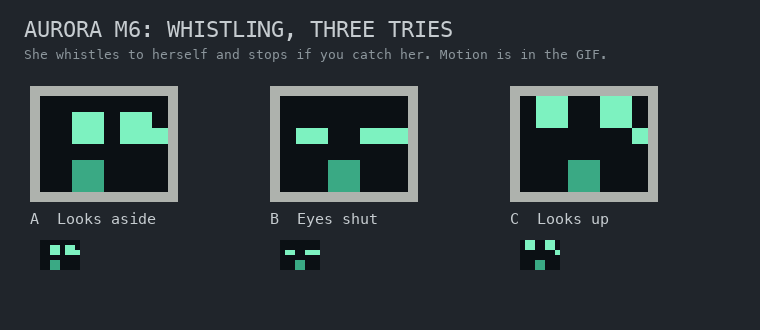
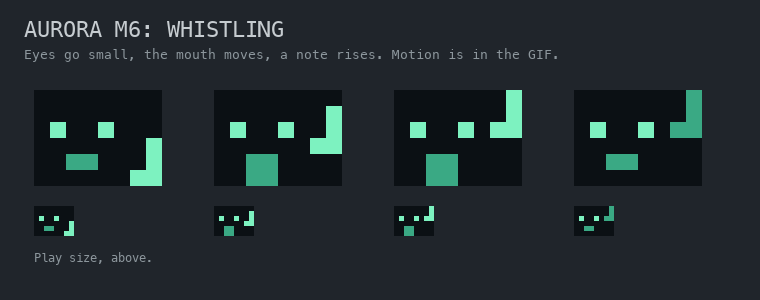
docs: redraw her whistle with small eyes and a note

diff --git a/docs/art/aurora-shepherd/make_m6_faces_mockup.py b/docs/art/aurora-shepherd/make_m6_faces_mockup.py
@@ -352,43 +352,40 @@ def worry_sheet():
     img.save(HERE / 'worry-motion-mockup.png')
 
 
-WHISTLES = [
-    ('A  Looks aside', ['........', '..##.##.', '..##.##.', '........', '..++....', '..++....']),
-    ('B  Eyes shut', ['........', '........', '.##..##.', '........', '...++...', '...++...']),
-    ('C  Looks up', ['.##..##.', '.##..##.', '........', '........', '...++...', '...++...']),
-]
-NOTE = [(7, 4), (7, 3), (7, 2), (7, 1), (7, 0), None, None, None]
+WHISTLE_SHUT = ['........', '........', '.#..#...', '........', '..++....', '........']
+WHISTLE_OPEN = ['........', '........', '.#..#...', '........', '..++....', '..++....']
+NOTE_SHAPE = ((1, 0), (1, 1), (0, 2), (1, 2))  # A stem and a head, at most 2 by 3 texels.
 
 
-def whistling(rows, frame):
-    """Her face, with one lit texel climbing the right side like a note."""
-    spot = NOTE[frame % len(NOTE)]
-    if spot is None:
-        return rows
-    x, y = spot
-    return [row[:x] + '#' + row[x + 1:] if i == y else row for i, row in enumerate(rows)]
+def whistling(frame):
+    """Small eyes, a mouth that opens and shuts, and a note rising up the right side, dimming at the top."""
+    rows = [list(row) for row in (WHISTLE_OPEN if frame // 2 % 2 else WHISTLE_SHUT)]
+    step = frame % 8
+    if step < 5:
+        top = 3 - step if step < 4 else 0
+        cell = '+' if step == 4 else '#'
+        for dx, dy in NOTE_SHAPE:
+            if 0 <= top + dy < H:
+                rows[top + dy][6 + dx] = cell
+    return [''.join(row) for row in rows]
 
 
 def whistle_mockups():
-    img = Image.new('RGB', (760, 330), C['bg'])
+    img = Image.new('RGB', (760, 300), C['bg'])
     d = ImageDraw.Draw(img)
-    d.text((24, 16), 'AURORA M6: WHISTLING, THREE TRIES', font=font(22), fill=C['text'])
-    d.text((24, 46), 'She whistles to herself and stops if you catch her. Motion is in the GIF.', font=font(13), fill=C['dim'])
-    for i, (name, rows) in enumerate(WHISTLES):
-        x = 40 + i * 240
-        framed(d, whistling(rows, 2), x, 96, 16)
-        d.text((x - 10, 210), name, font=font(15), fill=C['text'])
-        display(d, cells(whistling(rows, 2)), x, 240, 5)
+    d.text((24, 16), 'AURORA M6: WHISTLING', font=font(22), fill=C['text'])
+    d.text((24, 46), 'Eyes go small, the mouth moves, a note rises. Motion is in the GIF.', font=font(13), fill=C['dim'])
+    for i, frame in enumerate((0, 2, 3, 4)):
+        x = 34 + i * 180
+        display(d, cells(whistling(frame)), x, 90, 16)
+        display(d, cells(whistling(frame)), x, 206, 5)
+    d.text((34, 250), 'Play size, above.', font=font(12), fill=C['dim'])
     img.save(HERE / 'whistle-face-mockup.png')
-    s, pad = 14, 26
+    s, pad = 22, 26
     frames = []
-    for frame in range(len(NOTE) * 2):
-        img = Image.new('RGB', (pad + 3 * (W * s + pad), H * s + 2 * pad + 18), C['bg'])
-        d = ImageDraw.Draw(img)
-        for i, (name, rows) in enumerate(WHISTLES):
-            x = pad + i * (W * s + pad)
-            display(d, cells(whistling(rows, frame)), x, pad, s)
-            d.text((x, pad + H * s + 8), name, font=font(13), fill=C['dim'])
+    for frame in range(16):
+        img = Image.new('RGB', (W * s + 2 * pad, H * s + 2 * pad), C['bg'])
+        display(ImageDraw.Draw(img), cells(whistling(frame)), pad, pad, s)
         frames.append(img)
     frames[0].save(HERE / 'whistle-face-mockup.gif', save_all=True, append_images=frames[1:], duration=200, loop=0)
 
